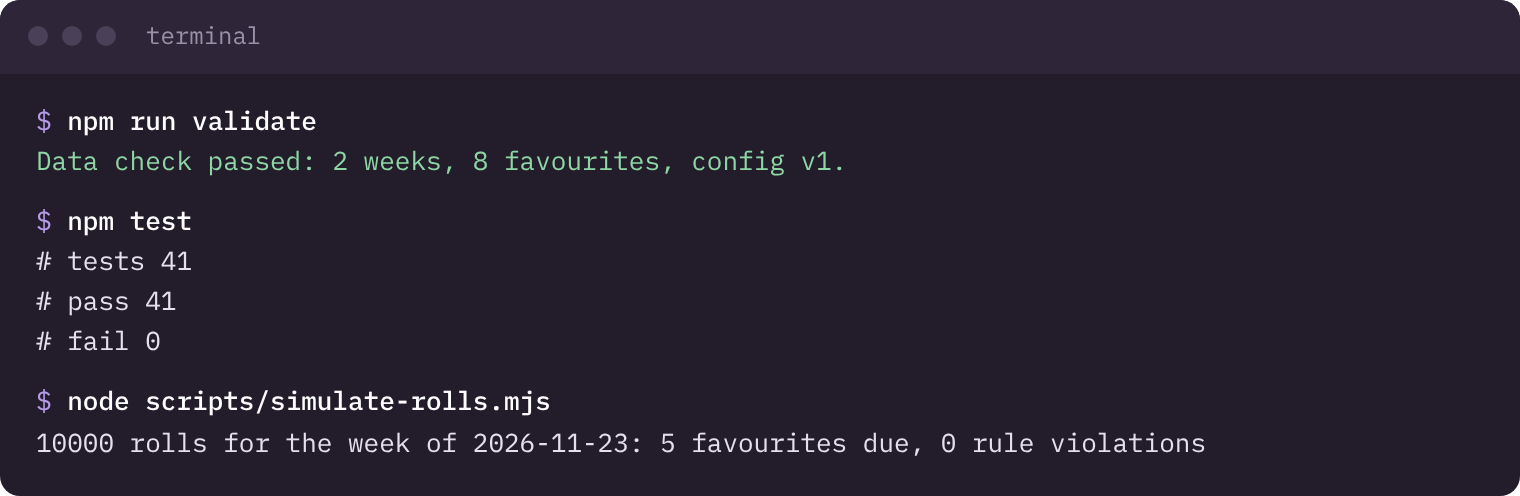
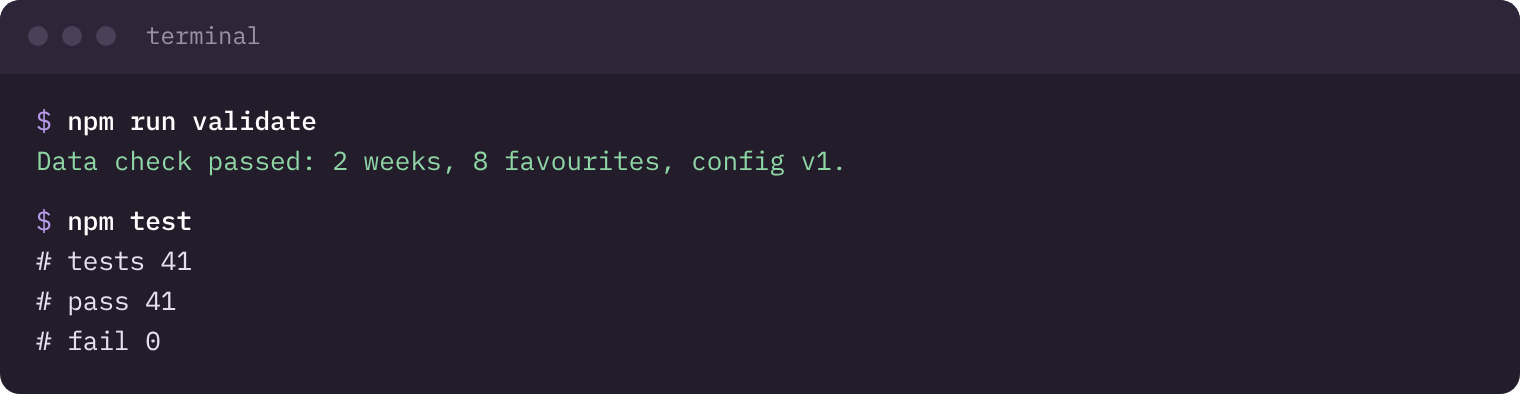
Merge pull request #5 from MyreLab/remove-forced-checks
Remove the roll simulation, the custom schema checker and the roadmap…

diff --git a/tests/data.test.js b/tests/data.test.js
@@ -1,7 +1,6 @@
 import { test } from "node:test";
 import assert from "node:assert/strict";
 import { loadDataset, validateDataset } from "../scripts/validate-data.mjs";
-import { validateSchema } from "../scripts/lib/schema.mjs";
 
 const fresh = () => structuredClone(loadDataset());
 const errorsFor = (mutate) => { const ds = fresh(); mutate(ds); return validateDataset(ds); };
@@ -10,14 +9,9 @@ test("the shipped sample data passes every check", () => {
   assert.deepEqual(validateDataset(loadDataset()), []);
 });
 
-test("schema checker: types, required fields, patterns and unknown fields", () => {
-  const schema = { type: "object", required: ["a"], additionalProperties: false, properties: { a: { type: "string", pattern: "^x" }, b: { type: "integer", minimum: 2 } } };
-  assert.deepEqual(validateSchema({ a: "xy", b: 3 }, schema), []);
-  assert.equal(validateSchema({}, schema).length, 1);
-  assert.equal(validateSchema({ a: "yx" }, schema).length, 1);
-  assert.equal(validateSchema({ a: "x", b: 1 }, schema).length, 1);
-  assert.equal(validateSchema({ a: "x", c: 1 }, schema).length, 1);
-  assert.equal(validateSchema({ a: 5 }, schema).length, 1);
+test("rejects a week that does not match its schema", () => {
+  const errs = errorsFor((ds) => { ds.weeks["2026-11-16"].days[1].portions = "four"; });
+  assert.ok(errs.some((e) => /portions/.test(e)), errs.join("\n"));
 });
 
 test("rejects an ingredient that points at a missing shopping item", () => {
@@ -67,7 +61,7 @@ test("rejects a second wheat weeknight", () => {
 
 test("rejects a dish with no side", () => {
   const errs = errorsFor((ds) => { ds.weeks["2026-11-16"].days[1].side.ingredients = []; });
-  assert.ok(errs.some((e) => /side\.ingredients: needs at least 1/.test(e)));
+  assert.ok(errs.some((e) => /side\/ingredients must NOT have fewer than 1/.test(e)));
 });
 
 test("rejects a favourite whose slot disagrees with its cook time", () => {

diff --git a/scripts/media/capture.py b/scripts/media/capture.py
@@ -249,15 +249,13 @@ def terminal_html(title, blocks, width):
 def terminal_shots(browser):
     ok = run("npm run validate --silent")
     tests = "\n".join(l for l in run("node --test").splitlines() if l.startswith(("# tests", "# pass", "# fail")))
-    sim = run("node scripts/simulate-rolls.mjs").splitlines()
-    sim = "\n".join(l for l in sim if not l.startswith(("due", "wait")))[:600]
-    render_html(browser, terminal_html("terminal", [("npm run validate", ok), ("npm test", tests), ("node scripts/simulate-rolls.mjs", sim)], 760), 760, 600, SHOTS / "checks-pass.png", selector="#t")
+    render_html(browser, terminal_html("terminal", [("npm run validate", ok), ("npm test", tests)], 760), 760, 600, SHOTS / "checks-pass.png", selector="#t")
 
     # a deliberately broken week, to show the gate catching mistakes
     with tempfile.TemporaryDirectory() as tmp:
         t = Path(tmp)
         for d in ("data", "schemas", "js"): shutil.copytree(ROOT / d, t / d)
-        (t / "scripts").mkdir(); shutil.copytree(ROOT / "scripts" / "lib", t / "scripts" / "lib")
+        (t / "scripts").mkdir(); (t / "node_modules").symlink_to(ROOT / "node_modules")
         shutil.copy(ROOT / "scripts" / "validate-data.mjs", t / "scripts"); shutil.copy(ROOT / "package.json", t)
         f = t / "data" / "weeks" / "2026-11-16.json"; wk = json.loads(f.read_text())
         wk["days"][1]["ingredients"].append({"item": "ghost-spice", "qty": "1 tsp", "text": "smoked paprika"})

diff --git a/README.md b/README.md
@@ -59,9 +59,9 @@ How a week gets planned: Claude Code runs the planning step on a schedule. Mesa 
   <img src="docs/screenshots/checks-fail.png" alt="The data check reporting four problems" width="640">
 
 - **The weekly plan is written by Claude Code** from a written set of rules ([`docs/PLAYBOOK.md`](docs/PLAYBOOK.md)). I do not take the output on trust, which is why the check script exists.
-- **The favourites roll is a small function** ([`js/randomizer.js`](js/randomizer.js)) with rules: a dish has to rest for 28 days before it can come back, and a roll gives at most two picks. It has tests, and [`scripts/simulate-rolls.mjs`](scripts/simulate-rolls.mjs) runs 10,000 rolls to confirm no rule is ever broken:
+- **The favourites roll is a small function** ([`js/randomizer.js`](js/randomizer.js)) with rules: a dish has to rest for 28 days before it can come back, and a roll gives at most two picks. It has tests, including one that runs thousands of random rolls to check that no rule is ever broken:
 
-  <img src="docs/screenshots/checks-pass.png" alt="The data check, the tests and the roll simulation all passing" width="640">
+  <img src="docs/screenshots/checks-pass.png" alt="The data check and the tests passing" width="640">
 
 - **Nothing is stored twice.** The days that use a shopping item are worked out from the recipes, so the list and the recipes cannot disagree.
 
@@ -74,9 +74,10 @@ python3 -m http.server
 # open http://localhost:8000
 ```
 
-Checks need Node 20 or newer and nothing else to install:
+Checks need Node 20 or newer:
 
 ```bash
+npm install         # once
 npm test            # tests
 npm run validate    # checks the data files
 ```
@@ -87,9 +88,9 @@ npm run validate    # checks the data files
 index.html, css/, js/   the website
 data/                   sample rules, favourites and weeks (JSON)
 schemas/                the expected shape of each data file
-scripts/                the data check and the roll simulation
+scripts/                the data check and the image generators
 tests/                  tests
-docs/                   playbook, ideas, diagrams and screenshots
+docs/                   playbook, diagram and screenshots
 ```
 
 ## Credits and license
